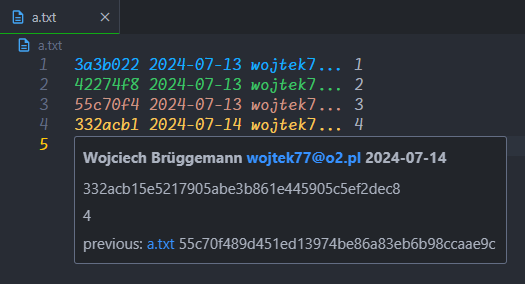
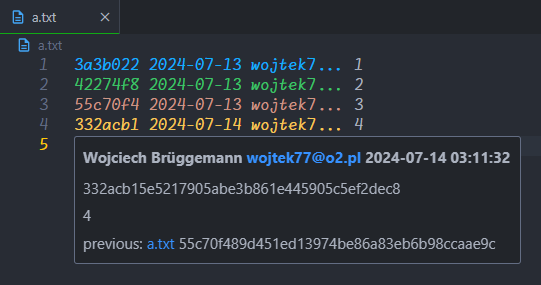
fix data committer and code improvement

diff --git a/src/GitBlame.ts b/src/GitBlame.ts
@@ -51,9 +51,9 @@ export class GitBlame {
                 child.stderr.on('data', (data: string) => {
                     err += data;
                 });
-                child.on('close', (code: any) => {
+                child.on('close', (code: number) => {
                     if (code !== 0) {
-                        return reject(err);
+                        return reject(new Error(err));
                     }
                     resolve(buf);
                 });
@@ -76,11 +76,11 @@ export class GitBlame {
             const blameData = this.parse(output as string);
             return blameData;
         } catch (e) {
-            const error = (e as string);
-            if (error.includes('git')) {
+            const error = (e as Error);
+            if (error.message.includes('git')) {
                 vscode.window.showInformationMessage('No git repository');
             } else {
-                vscode.window.showErrorMessage(error);
+                vscode.window.showErrorMessage(error.message);
                 throw e;
             }
         }
@@ -101,10 +101,16 @@ export class GitBlame {
                 const hash = hashArr[0];
                 if (cache[hash] === undefined) {
                     const author = chunk[1].slice(7);
+                    const authorMail = chunk[2].slice(13, -1);
+                    const authorTime = +chunk[3].slice(12);
+                    const authorTz = chunk[4].slice(10);
                     const committer = chunk[5].slice(10);
+                    const committerMail = chunk[6].slice(16, -1);
+                    const committerTime = +chunk[7].slice(15);
+                    const committerTz = chunk[8].slice(13);
+                    const summary = chunk[9].slice(8);
                     
                     // if (line !== +hashArr[2] as unknown as number) {
-                    //     console.log('error: line !== hashArr[2]');
                     //     throw new Error('line !== hashArr[2]');
                     // }
                     
@@ -128,19 +134,19 @@ export class GitBlame {
                         hash_2: +hashArr[2],
                         hash_3: hashArr[3] ? +hashArr[3] : undefined,
                         author: author,
-                        authorMail: chunk[2].slice(12).slice(1,-1),
-                        authorTime: +chunk[3].slice(12),
-                        authorTz: chunk[4].slice(10),
+                        authorMail: authorMail,
+                        authorTime: authorTime,
+                        authorTz: authorTz,
                         committer: committer,
-                        committerMail: chunk[6].slice(15).slice(1,-1),
-                        committerTime: +chunk[7].slice(15),
-                        committerTz: chunk[8].slice(13),
-                        summary: chunk[9].slice(8),
+                        committerMail: committerMail,
+                        committerTime: committerTime,
+                        committerTz: committerTz,
+                        summary: summary,
                         previousHash: previousArr !== undefined ? previousArr[1] : undefined,
                         previousFilename: previousArr !== undefined ? previousArr[2] : undefined,
                         text: text,
                         isCommitted: hash !== '0000000000000000000000000000000000000000',
-                        isDiffAuthorCommitter: author != committer,
+                        isDiffAuthorCommitter: authorTime !== committerTime || author !== committer || authorMail !== committerMail,
                     } as BlameData;
                 }
                 

diff --git a/src/DecorationDataBase.ts b/src/DecorationDataBase.ts
@@ -71,7 +71,7 @@ export class DecorationDataBase {
         return util.fillAndTruncate(rec.hash, 7, noBreakSpace)
                 +' '
                 /* https://stackoverflow.com/questions/27939773/tolocaledatestring-short-format */
-                +new Date(rec.authorTime * 1000).toLocaleDateString('en-CA')
+                +util.date(rec.authorTime)
                 +' '
                 +util.fillAndTruncate(rec.authorMail, 7, noBreakSpace, '...');
     }
@@ -89,20 +89,21 @@ export class DecorationDataBase {
     }
     
     private _lineHoverMessage(rec: BlameData) {
+        const util = Util.getInstance();
         /* https://stackoverflow.com/questions/75542879/how-to-add-styled-text-in-vscode-markdownstring */
         const m = new vscode.MarkdownString();
         m.supportHtml = true;
         if (rec.isDiffAuthorCommitter) {
-            const dateA = new Date(rec.authorTime * 1000).toLocaleDateString('en-CA');
-            const dateC = new Date(rec.committerTime * 1000).toLocaleDateString('en-CA');
-            m.appendMarkdown(`#### author: ${rec.author} <span style="color:#3691ff;">[${rec.authorMail}]()</span> ${dateA}`);
+            const datetimeAuthor = util.datetime(rec.authorTime);
+            const datetimeCommitter = util.datetime(rec.committerTime);
+            m.appendMarkdown(`#### author: ${rec.author} <span style="color:#3691ff;">[${rec.authorMail}]()</span> ${datetimeAuthor}`);
             m.appendText('\n');
-            m.appendMarkdown(`#### committer: ${rec.committer} <span style="color:#3691ff;">[${rec.committerMail}]()</span> ${dateA}`);
+            m.appendMarkdown(`#### committer: ${rec.committer} <span style="color:#3691ff;">[${rec.committerMail}]()</span> ${datetimeCommitter}`);
             m.appendText('\n');
             m.appendMarkdown(`${rec.hash}`);
         } else {
-            const date = new Date(rec.authorTime * 1000).toLocaleDateString('en-CA');
-            m.appendMarkdown(`#### ${rec.author} <span style="color:#3691ff;">[${rec.authorMail}]()</span> ${date}`);
+            const datetime = util.datetime(rec.authorTime);
+            m.appendMarkdown(`#### ${rec.author} <span style="color:#3691ff;">[${rec.authorMail}]()</span> ${datetime}`);
             m.appendText('\n');
             m.appendMarkdown(`${rec.hash}`);
         }

diff --git a/src/Util.ts b/src/Util.ts
@@ -47,4 +47,22 @@ export class Util {
     public fillAndTruncate(str: string, maxLength: number, fillString: string, extraText = '') {
         return this.truncate(str.padEnd(maxLength, fillString), maxLength, extraText);
     };
+    
+    /**
+     * Return date in format yyyy-mm-dd
+     * @param timestamp 
+     * @return string
+     */
+    public date(timestamp: number) {
+        return new Date(timestamp * 1000).toLocaleDateString('sv-SE');
+    }
+    
+    /**
+     * Return datetime in format yyyy-mm-dd hh:mm:ss
+     * @param timestamp
+     * @return string
+     */
+    public datetime(timestamp: number) {
+        return new Date(timestamp * 1000).toLocaleString('sv-SE');
+    }
 }
